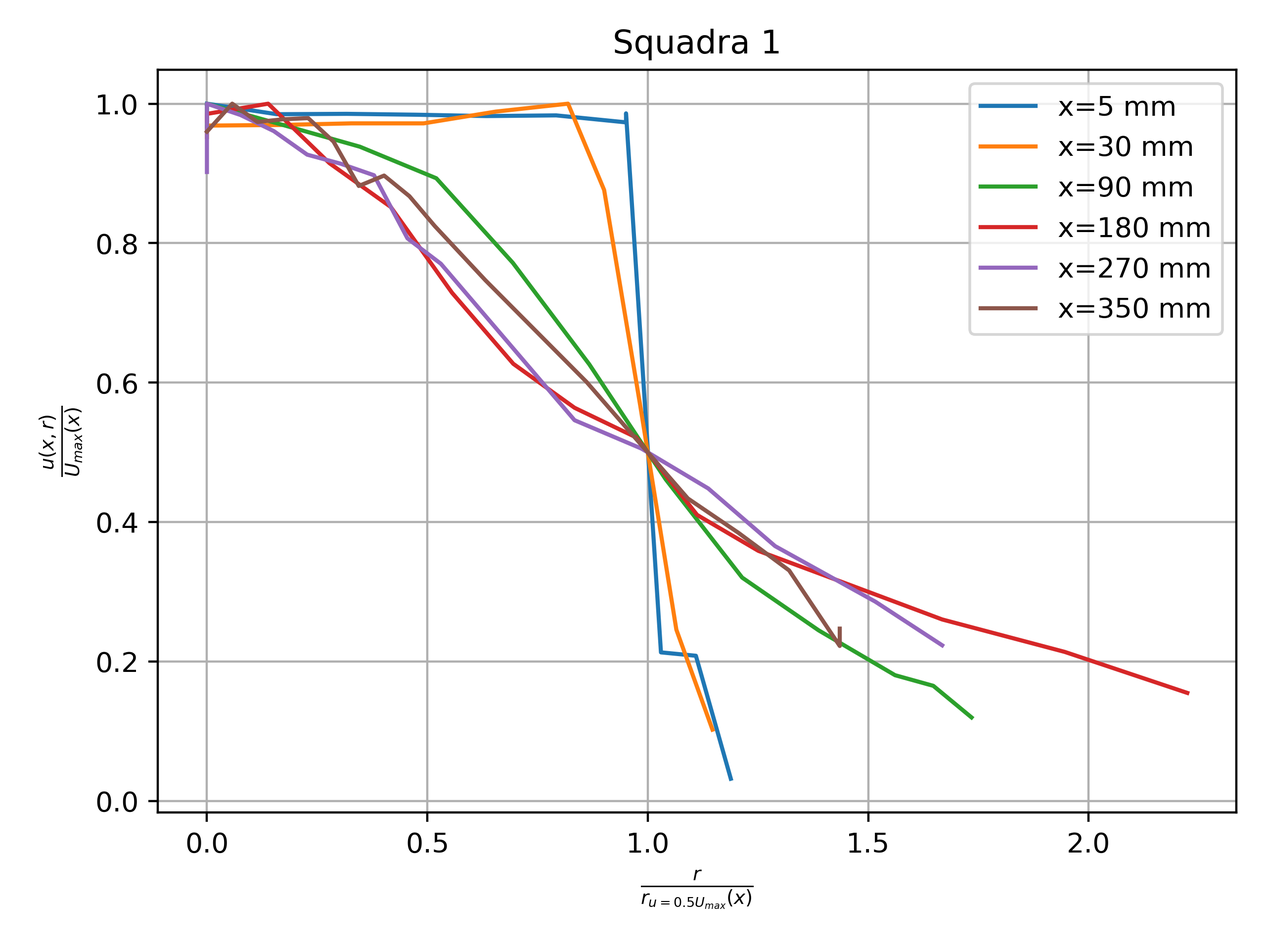
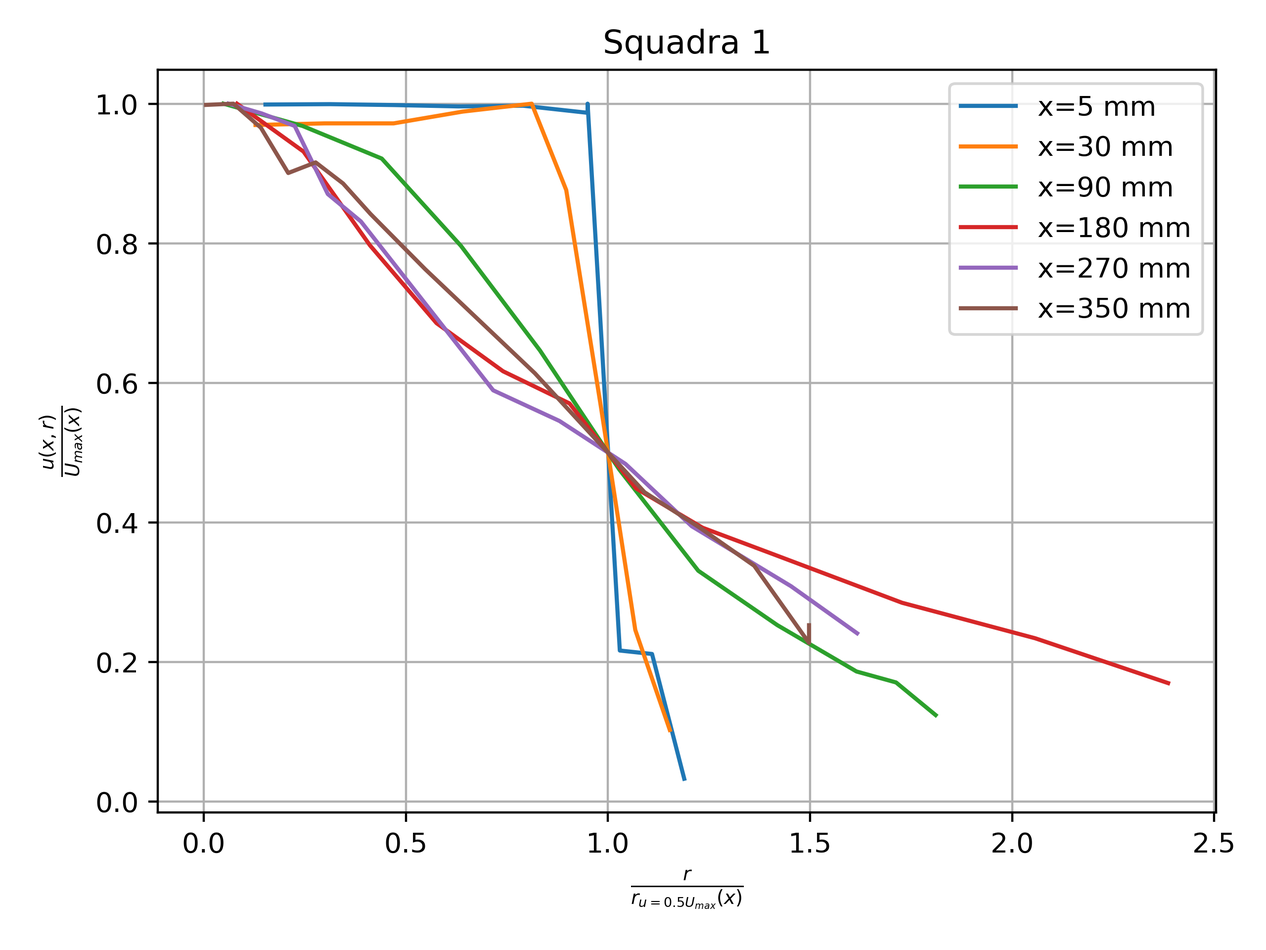
Fixes

diff --git a/chapters/5.tex b/chapters/5.tex
@@ -13,14 +13,14 @@ I profili alari NACA sono forme geometriche standardizzate sviluppate dal Nation
     \item La seconda cifra fornisce la distanza del punto di massima curvatura dal bordo d'attacco espressa come percentuale della corda e in multipli di dieci;
     \item Le ultime due cifre descrivono il massimo spessore del profilo alare espresso come percentuale della corda.
 \end{itemize}
-Ad esempio, il profilo alare NACA 2412 presenta una curvatura massima del 2\%, situata al 40\% della corda partendo dal bordo d'attacco e ha uno spessore massimo del 12\% della corda. Nei profili alari NACA a quattro cifre lo spessore massimo è sempre posizionaot al 30\% della corda, sempre partendo dal bordo d'attacco.\\\\
+Ad esempio, il profilo alare NACA 2412 presenta una curvatura massima del 2\%, situata al 40\% della corda partendo dal bordo d'attacco e ha uno spessore massimo del 12\% della corda. Nei profili alari NACA a quattro cifre lo spessore massimo è sempre posizionato al 30\% della corda, sempre partendo dal bordo d'attacco.\\\\
 Il profilo alare NACA 0015, preso in esame, è simmetrico, in quanto le cifre 00 indicano che non vi è una curvatura. Il 15 indica che lo spessore massimo è il 15\% della sua lunghezza.
 \newpage
 \noindent La formula per generare la forma di un profio alare NACA $00xx$, dove "$xx$" va sostituito con lo spessore massimo espresso come percentuale della corda, è:
 \begin{equation*}
     y_t = 5tc\left[ 0.2969\sqrt{\frac{x}{c}} -0.1260\left(\frac{x}{c}\right) -0.3516\left(\frac xc \right)^2 + 0.2843 \left( \frac xc \right)^3 -0.1015 \left( \frac xc \right)^4 \right]
 \end{equation*}
-Dove:
+dove:
 \begin{itemize}
     \item $c$ è la lunghezza della corda;
     \item $x$ è la posizione lungo la corda da 0 a $c$;
@@ -29,12 +29,12 @@ Dove:
 \end{itemize}
 
 \subsection{Descrizione dell'esperimento}
-Nella presente attività, il profilo alare NACA 0015, di corda pari a $c=100$ mm, è studiato con l'utilizzo di una galleria del vento. Le forze di pressione esercitate dal fluido sul profilo giaccino sul piano del campo di moto. Le forza aerodinamica generata dal flusso può essere scomposta in due componenti, una parallela ed una normale alla velocità, rispettivamente la resistenza e la portanza. Tali forze risultano applicate in un punto detto centro di pressione.\\\\
+Nella presente attività, il profilo alare NACA 0015, di corda pari a $c=100$ mm, è studiato con l'utilizzo di una galleria del vento aperta. Le forze di pressione esercitate dal fluido sul profilo giacciono sul piano del campo di moto. Le forza aerodinamica generata dal flusso può essere scomposta in due componenti, una parallela ed una normale alla velocità, rispettivamente la resistenza e la portanza. Tali forze risultano applicate in un punto detto centro di pressione.\\\\
 Nota la distribuzione di pressione relativa $p-p_\infty$ sulla superficie del profilo $S$, la risultante delle forze aerodinamiche $F$ è data da:
 \begin{equation*}
     F = \int_S (p-p_\infty)\vec n dS
 \end{equation*}
-Considerando un profilo immerso in una corrente uniforme di velocità $V_\infty$, posto ad incidenza $\alpha$, si utilizzano i pedici $+$ e $-$ per indicare le grandezze riferite rispettivamente a dorso e ventre del profilo.\\\\
+Considerando un profilo immerso in una corrente uniforme di velocità $V_\infty$, posto ad incidenza $\alpha$, si utilizzano i pedici "$+$" e "$-$" per indicare le grandezze riferite rispettivamente a dorso e ventre del profilo.\\\\
 Considerando un tratto di superficie del dorso di profondità unitaria, si ha:
 \begin{equation*}
     dF_+ = (p_+ - p_\infty)(ds_+ \cdot 1)
@@ -73,7 +73,7 @@ Si può riscrivere l'espressione della portanza come:
 \begin{equation*}
     L = \frac12 \rho V^2_\infty \int_0^c (c_{p-}-c_{p+})dx
 \end{equation*}
-Introducendo il coefficiente portanza, e considerando un flusso bidimensionale, si può adimensionalizzare la portanza rispetto ad una superficie di larghezza pari alla corda $c$ e profondità unitaria:
+Introducendo il coefficiente di portanza, e considerando un flusso bidimensionale, si può adimensionalizzare la portanza rispetto ad una superficie di larghezza pari alla corda $c$ e profondità unitaria:
 \begin{equation*}
     c_L = \int_0^1(c_{p-}-c_{p+})d\left( \frac xc \right)
 \end{equation*}
@@ -115,8 +115,8 @@ Per il calcolo della posizione del fuoco è sufficiente quindi imporre la condiz
 \begin{equation*}
     \frac{\partial c_{M_{ac}}}{\partial \alpha} = 0
 \end{equation*}
-Avendo cura di sostituire l'espressione per il coefficiente di momento sul bordo di attacco e per il coefficiente di portanza nel tratto lineare delle rispettive curve.\\\\
-Per un profilo in campo subsonico, la posizione del centro aerodinamico corrisponde a circa il 25\% della corda, mentre nel caso di campo supersonico il fuoco dei profili alare è posizionato in corrispondenza del 50\% della corda.\\\\
+avendo cura di sostituire l'espressione per il coefficiente di momento sul bordo di attacco e per il coefficiente di portanza nel tratto lineare delle rispettive curve.\\\\
+Per un profilo in campo subsonico, la posizione del centro aerodinamico corrisponde a circa il 25\% della corda, mentre nel caso di campo supersonico il fuoco dei profili alare risulta in corrispondenza del 50\% della corda.\\\\
 Una volta calcolato il fuoco del profilo è infine possibile ricavare il coefficiente di momento aerodinamico:
 \begin{equation*}
     c_{M_{ac}} = c_{M_{LE}} + c_L \frac{x_{ac}}c
@@ -140,7 +140,7 @@ Per misurare la distribuzione di pressione sul dorso e sul ventre del profilo al
 
 \noindent Sul profilo alare sono posizionate 11 prese di pressione, alle seguenti coordinate dal bordo di attacco:
 \begin{equation*}
-    \left( \frac xc \right) = 0,\ 2.5,\ 5,\ 10,\ 20,\ 30,\ 40,\ 50,\ 60,\ 70,\ 80
+    \left( \frac xc \right) = [0,\ 2.5,\ 5,\ 10,\ 20,\ 30,\ 40,\ 50,\ 60,\ 70,\ 80] \%
 \end{equation*}
 Queste prese sono presenti solo su una faccia del profilo, questo perché data la geometria simmetrica, il campo di pressione rilevato sul dorso ad un angolo di incidenza positiva è uguale al campo di pressione che si rileva sul ventre allo stesso angolo di incidenza con segno opposto.
 \begin{figure}[h]
@@ -162,7 +162,7 @@ Tenuto conto che nello strato limite tutte le grandezze variano rapidamente con 
     \frac{\partial P}{\partial y} = 0
 \end{equation*}
 Cioè la pressione statica nello strato limite lungo la coordinata $y$ rimane costante. Pertanto, è possibile considerare la pressione statica misurata a parete uguale alla pressione statica appena fuori dallo strato limite, ottenendo quindi informazioni sul campo di moto attorno al profilo.\\\\
-Oltre alle 11 prese di pressione statica sul profilo, sono presenti altre due prese subito a valle del convergente, una per la pressione totale ed una per la pressione statica. Queste 13 prese sono collegate tramite condotti pneumatici ad un multimanometro differenziale.\\\\
+Oltre alle undici prese di pressione statica sul profilo, sono presenti altre due prese subito a valle del convergente, una per la pressione totale ed una per la pressione statica. Queste tredici prese sono collegate tramite condotti pneumatici ad un multimanometro differenziale.\\\\
 In particolare, la presa di pressione statica all'ingresso della camera di prova e la presa di pressione totale della corrente sono connesse con le canne 1 e 2 del multimanometro, le canne 3 e 4 sono libere e quindi rilevano la pressione ambiente mentre le altre 11 canne sono impegnate dai segnali delle prese su una delle due facce del profilo alare.
 \begin{figure}[H]
     \centering
@@ -170,7 +170,7 @@ In particolare, la presa di pressione statica all'ingresso della camera di prova
     \caption{Multimanometro}
 \end{figure}
 
-\noindent Le canne manometriche sono inclinate con un angolo $\beta=15^\circ$ e riempite con alcool etilico, di densità nota $\rho_{fm} = 0.789$ g/cm$^3$.\\\\
+\noindent Le canne manometriche sono inclinate con un angolo $\beta=30^\circ$ e riempite con alcool etilico, di densità nota $\rho_{fm} = 0.789$ g/cm$^3$.\\\\
 Il peso specifico del fluido manometrico si ottiene come:
 \begin{equation*}
     \gamma_{fm} = g_0 \rho_{fm} = 7732\ \text{N/m}^3
@@ -310,7 +310,7 @@ Si ottengono i seguenti numeri di Reynolds per le quattro squadre:
 \end{equation*}
 
 \subsubsection{Coefficiente di pressione}
-Dai dati sulle altezze delle canne manometriche è immediato ricavare i coefficienti di pressioni valutati ad ogni posizione sul profilo e per ogni incidenza:
+Dai dati sulle altezze delle canne manometriche è immediato ricavare i coefficienti di pressione valutati ad ogni posizione sul profilo $x$ e per ogni incidenza $\alpha$:
 \begin{equation*}
     c_p(x,\alpha) = \frac{h_\infty-h}{h_\infty - h_{0\infty}}
 \end{equation*}
@@ -464,7 +464,7 @@ Per il calcolo della posizione del fuoco si impone la proprietà focale, avendo 
 \begin{equation*}
     \frac{x_{ac}}c = - \frac{c_{M_{LE}\alpha}}{c_{L\alpha}} = \frac{1.3}{5.2} = 0.25
 \end{equation*}
-Questo risultato è valido per il campo subsonico mentre in campo supersonico il fuoco dei profili alari è posizionato in corrispondenza del 50\% della corda.
+Questo risultato è valido per il campo subsonico mentre in campo supersonico il fuoco dei profili alari risulta in corrispondenza del 50\% della corda.
 
 \subsubsection{Coefficiente di momento aerodinamico}
 Una volta calcolata la posizione del fuoco si può ricavare il coefficiente di momento aerodinamico:

diff --git a/chapters/11.tex b/chapters/11.tex
@@ -117,7 +117,7 @@ Il toolbox PIVlab comprende gli algoritmi numerici della PIV con cui si può val
 L'analisi dati per la presente attività è condotta con l'ausilio di alcuni codici in Matlab, riportati in appendice \ref{b11}.\\\\
 I file \texttt{.mat} esportati da PIVlab contengono i campi di velocità per ciascun fotogramma dei video analizzati. Utilizzando un codice Matlab, è possibile generare delle animazioni che mostrano il campo di velocità, con una scala di colori per rappresentare l'intensità e delle frecce per indicare la direzione del flusso.
 \subsubsection{Campo istantaneo di velocità}
-Estraendo il campo di velocità in un determinato istante, si ottiene il campo di velocità istantaneo:
+Estraendo il campo di velocità in un determinato istante, si ottiene il campo istantaneo di velocità:
 \begin{figure}[H]
     \centering
     \includegraphics[height=.45\textwidth]{images/11/f300_22b.png}
@@ -209,7 +209,7 @@ Applicando la FFT ai segnali, si ottiene:
     \caption{Trasformata di Fourier (cilindro 2022, cilindro 2023, placca 2022)}
 \end{figure}
 
-\noindent Si osservano dei picchi nella trasformata di Fourier in corrispondenza della frequenza di svilamento dei vortici. I risultati della FFT cambiano a seconda del punto analizzato nello spazio, ma la frequenza che caratterizza lo sfilamento vorticoso rimane la stessa.\\\\
+\noindent Si osservano dei picchi nella trasformata di Fourier in corrispondenza della frequenza di sfilamento dei vortici. I risultati della FFT cambiano a seconda del punto analizzato nello spazio, ma la frequenza che caratterizza lo sfilamento vorticoso rimane la stessa.\\\\
 Per ricavare lo spettro di potenza dai risultati della FFT, si calcola il modulo al quadrato e si normalizza rispetto al numero di fotogrammi acquisiti $N_{frames}$:
 \begin{equation*}
     P(f) = \frac{ \left|\hat u(f)\right|^2}{N_{frames}} 
@@ -264,7 +264,7 @@ Si ottengono i seguenti risultati:
     \caption{Diagramma Reynolds-Strouhal}
 \end{figure}
 
-\noindent Il flusso che si sviluppa non risulta essere quello canonico 2D per via della sua dimensione finita che appoggia sulla parete inferiore della camera di prova. Inoltre, il piano di misura è a un diametro di distanza dal fondo, dove si sviluppa il vortice a ferro di cavallo (horseshoe vortex) e sono presenti effetti tridimensionali dovuti all'induzione del vortice. Per questi motivi i casi da studiare differiscono dai flussi canonici bidimensionali, pertanto, l'andamento Reynolds-Strouhal si discosta leggermente da quello studiato per il cilindro 2D utilizzando l'anemometria a filo caldo.
+\noindent Il flusso che si sviluppa non risulta essere quello canonico 2D per via della sua dimensione finita che appoggia sulla parete inferiore della camera di prova. Inoltre, il piano di misura è a un diametro di distanza dal fondo, dove si sviluppa il vortice a ferro di cavallo (horseshoe vortex) e sono presenti effetti tridimensionali dovuti all'induzione del vortice. Per questi motivi i casi esaminati differiscono dai flussi canonici bidimensionali, pertanto, l'andamento Reynolds-Strouhal si discosta leggermente da quello studiato per il cilindro 2D utilizzando l'anemometria a filo caldo.
 
 \subsubsection{Conservazione dell'energia (Teorema di Parseval)}
 Secondo il teorema di Parseval, l'energia totale di un segnale nel dominio del tempo è uguale all'energia totale nel dominio delle frequenze. Applicando il teorema al caso in esame, la varianza delle fluttuazioni nel dominio del tempo deve essere uguale all'integrale dello spettro di potenza nel dominio delle frequenze.\\\\
@@ -304,10 +304,11 @@ Dal campo di fluttuazioni di velocità si possono infine ricavare gli sforzi di 
     \tau_{Re} = -\rho \overline{u^\prime v^\prime}
 \end{equation*}
 dove con $\rho$ è indicata la densità dell'acqua $\rho = 1000$ kg/m$^3$.\\\\
-Gli sforzi di Reynolds forniscono una visione dettagliata delle interazioni turbolente nella scia del cilindro. La presenza di elevate fluttuazioni turbolente nelle regioni di separazione e ricircolo evidenzia l'importanza dei fenomeni turbolenti nel determinare il comportamento globale del flusso.\\\\
 Si ottiene quindi il seguente diagramma:
 \begin{figure}[H]
     \centering
     \includegraphics[width=\textwidth]{images/11/tauRe.png}
     \caption{Sforzi di Reynolds (cilindro 2022)}
 \end{figure}
+
+\noindent Gli sforzi di Reynolds forniscono una visione dettagliata delle interazioni turbolente nella scia del cilindro. La presenza di elevate fluttuazioni turbolente nelle regioni di separazione e ricircolo evidenzia l'importanza dei fenomeni turbolenti nel determinare il comportamento globale del flusso.

diff --git a/chapters/3.tex b/chapters/3.tex
@@ -43,7 +43,7 @@ La catena di misura è dunque costituita da:
 \subsection{Procedura sperimentale}
 Ogni squadra effettua misure per una portata costante. Pertanto si ricavano dati per quattro diversi valori di portata, quindi quattro diversi numeri di Reynolds.\\\\
 Le misure sono effettuate al variare della distanza trasversale del getto $r$ e per diversi valori di distanza assiale $x$.\\\\
-Per regolare la distanza trasversale e la distanza assiale, sono presenti due diverse manopole. Il primo passo consiste nel misurare l'attuale distanza assiale con l'utilizzo di un metro. Una volta definita la distanza assiale, si procede a far variare la distanza trasversale in entrambi i versi rispetto all'asse del getto e si acquisiscono i dati in uscita dal trasduttore di pressione. Una volta acquisiti sufficienti misurazioni si passa ad una diversa distanza assiale $x$ e si ripete la procedura di acquisizione dati.\\\\
+Per regolare la distanza trasversale e la distanza assiale, sono presenti due diverse manopole. Il primo passo consiste nel misurare l'attuale distanza assiale con l'utilizzo di un metro. Una volta definita la distanza assiale, si procede a far variare la distanza trasversale in entrambi i versi rispetto all'asse del getto e si acquisiscono i dati in uscita dal trasduttore di pressione. Una volta acquisite sufficienti misurazioni si passa ad una diversa distanza assiale $x$ e si ripete la procedura di acquisizione dati. Durante la procedura sperimentale non si escludono eventuali errori degli operatore nel misurare le distanze $x$ e $r$.\\\\
 I dati grezzi acquisiti mediante questa procedura sono riportati in appendice \ref{a3}.
 
 \subsection{Analisi dati}
@@ -61,12 +61,12 @@ Dalle tensioni in uscita acquisite, si calcola la pressione dinamica e quindi la
     q = \frac12 \rho U^2 = K_t \Delta E = K_t (E - E_0) \quad \Rightarrow \quad U = \sqrt{\frac{2q}\rho}
 \end{equation*}
 Si può quindi diagrammare l'andamento della velocità in funzione della posizione trasversale $r$ ed assiale $x$:
-\begin{figure}[h]
+\begin{figure}[H]
     \centering
     \includegraphics[width=.9\textwidth]{images/3/sq1.png}
     \caption{Profili di velocità per la prima squadra}
 \end{figure}
-\begin{figure}[ht]
+\begin{figure}[H]
     \centering
     \includegraphics[width=.85\textwidth]{images/3/sq2.png}
     \caption{Profili di velocità per la seconda squadra}
@@ -76,7 +76,7 @@ Si può quindi diagrammare l'andamento della velocità in funzione della posizio
     \includegraphics[width=.85\textwidth]{images/3/sq3.png}
     \caption{Profili di velocità per la terza squadra}
 \end{figure}
-\begin{figure}[ht]
+\begin{figure}[H]
     \centering
     \includegraphics[width=.8\textwidth]{images/3/sq4.png}
     \caption{Profili di velocità per la quarta squadra}
@@ -109,7 +109,7 @@ Utilizzando tale velocità si calcola il numero di Reynolds per i quattro flussi
 \begin{equation*}
     Re = \frac{\rho U_0 D_j}{\mu}
 \end{equation*}
-Questi corrispondono a 15905, 26321, 42207 e 34102.\\\\
+Questi corrispondono a 15684, 26321, 42207 e 34102.\\\\
 I profili di velocità che presentano una porzione del cuore potenziale del getto caratterizzano la mixing region del getto, mentre i profili successivi caratterizzano la zona di transizione e la zona self-similar.
 \newpage
 \noindent Si possono ora diagrammare i profili di velocità adimensionali, ad esempio normalizzando la velocità con la velocità iniziale del getto e la distanza radiale con il diametro del getto:

diff --git a/chapters/9.tex b/chapters/9.tex
@@ -1,5 +1,5 @@
 \section{Strato limite su placca piana}\label{c9}
-La presente esercitazione si pone come obiettivo la caratterizzazione dello strato limite su placca piana mediante l'utilizzo dell'anemometria a filo caldo. In particolare, si vuole:
+La presente esercitazione si pone come obiettivo la caratterizzazione dello strato limite su una placca piana mediante l'utilizzo dell'anemometria a filo caldo. In particolare, si vuole:
 \begin{itemize}
     \item Misurare i profili di velocità per diverse ascisse $x$ con assegnata $U_\infty$;
     \item Caratterizzare la struttura dello strato limite:
@@ -98,13 +98,13 @@ Trattandosi di strato limite turbolento la velocità è da intendersi come veloc
 \subsection{Catena di misura}
 La galleria del vento è del tipo a circuito aperto-aspirato con camera di prova circolare e chiusa.\\\\
 All'interno della camera di prova è posta una placca piana, a contatto con le pareti della galleria in modo da rendere il flusso il più bidimensionale possibile.\\\\
-La sonda a filo caldo è posizionata verticalmente in prossimità della placca piana mediante un movimentatore elettromeccanico passo-passo, in grado di spostare verticalmente la sonda di un millimetro per ogni 200 passi.\\\\
+La sonda a filo caldo è posizionata in prossimità della placca piana mediante un movimentatore verticale elettromeccanico passo-passo, in grado di spostare verticalmente la sonda di un millimetro per ogni 200 passi.\\\\
 Il sistema sonda-movimentatore passo-passo, è posizionato lungo la mezzeria della galleria placca piana, ad una distanza $x$ misurata approssimativamente dal bordo di attacco.\\\\
 Nella catena di misura è inoltre presente un tubo di Pitot necessario per regolare la velocità del flusso nella galleria del vento ed un sistema di acquisizione dati.
 \begin{figure}[H]
     \centering
     \includegraphics[width=.8\textwidth]{images/9/sonda.jpg}
-    \caption{Sonda a filo caldo posizionata sulla placca piana}
+    \caption{Sonda a filo caldo posizionata in prossimità della placca piana}
 \end{figure}
 
 \begin{figure}[H]
@@ -180,7 +180,7 @@ Poiché si dispone di dati discreti, per gli integrali si utilizza la regola dei
 \begin{equation*}
     \int_a^b f(x)dx \approx \sum_{k=1}^n \frac{f(x_{k-1}) + f(x_k)}2 \Delta x_k \quad \text{con } \Delta x_k = x_k - x_{k-1}
 \end{equation*}
-Il metodo più immediato per determinare se lo strato limite analizzato è laminare, transizionale o turbolento, è il calcolo del numero di Reynolds locale $Re_x$, relativo alla coordinata $x$, se questo è maggiore del numero di Reynolds critico ($Re_{cr}\approx500000$) allora lo strato limite è laminare, altrimenti è turbolento:
+Il metodo più immediato per determinare se lo strato limite analizzato è laminare, transizionale o turbolento, è il calcolo del numero di Reynolds locale $Re_x$, relativo alla coordinata $x$, se questo è maggiore del numero di Reynolds critico ($Re_{cr}\approx500000$) allora lo strato limite è turbolento, altrimenti è laminare:
 \begin{equation*}
     Re_x = \frac{U_\infty x}\nu
 \end{equation*}

diff --git a/chapters/6.tex b/chapters/6.tex
@@ -43,11 +43,11 @@ Si può quindi valutare la resistenza aerodinamica integrando tale relazione:
 \begin{equation*}
     D = \int_{-\infty}^\infty dD = \rho \int_{-\infty}^\infty u (V_\infty - u) dy
 \end{equation*}
-Introducendo il coefficiente di resistenza aerodinamica del profilo alare, rispetto ad una superifice di profondità unitaria ($S = c\cdot1$):
+Introducendo il coefficiente di resistenza aerodinamica del profilo alare, rispetto ad una superficie di profondità unitaria ($S = c\cdot1$):
 \begin{equation*}
     c_D = \frac{D}{\frac12 \rho V_\infty^2 c}
 \end{equation*}
-Si ricava quindi:
+si ricava quindi:
 \begin{equation*}
     c_D = \frac 2c \int_{-\infty}^\infty \frac {u}{V_\infty} \left( 1-\frac{u}{V_\infty}\right) dy
 \end{equation*}
@@ -58,7 +58,7 @@ Per calcolare la distribuzione di velocità normalizzata $u/V_\infty$, che risul
         &\text{Nella scia } p_{0} - p = \frac 12 \rho u^2
     \end{split}
 \end{equation*}
-Da queste equazioni si ricava:
+da queste equazioni si ricava:
 \begin{equation*}
     \frac{u}{V_\infty} = \sqrt{\frac{p_0 - p}{p_{0\infty} - p_\infty}}
 \end{equation*}
@@ -75,7 +75,7 @@ La catena di misura è la stessa descritta nell'esercitazione precedente. Il pro
     \caption{Rake di prese di pressione sulla scia}
 \end{figure}
 
-\noindent In particolare, il rack comprende 18 prese di pressione totale, distanti tra loro $\Delta y= 2mm$. Queste, assieme alle prese di pressione statica e pressione totale all'entrate della camera di prova, sono connesse ad un multimanometro differenziale, che utilizza come fluido manometrico alcool etilico.
+\noindent In particolare, il rake comprende 18 prese di pressione totale, distanti tra loro $\Delta y= 2mm$. Queste, assieme alle prese di pressione statica e pressione totale all'entrata della camera di prova, sono connesse ad un multimanometro differenziale, che utilizza come fluido manometrico alcool etilico.
 
 \subsection{Procedura sperimentale}\label{istogrammiscia}
 Per ogni incidenza sono misurate le altezze del fluido manometrico $h_i$ oltre alle grandezze $h_{0\infty}$ e $h_\infty$ corrispondenti alle pressioni $p_{0\infty}$ e $p_0$, analogamente all'indagine precedente.\\\\

diff --git a/chapters/8.tex b/chapters/8.tex
@@ -34,7 +34,7 @@ Risulta quindi il bilancio di scambio termico:
 \begin{equation*}
     I^2R_w = h\pi d l (T_w - T_f)
 \end{equation*}
-La dipendenza del flusso di calore scambiato dalla velocità è racchiuso nel coefficiente di scambio termico $h$. Ricorrendo all'analisi dimensionale e all'applicazine del teorema di Buckingham, il coefficiente $h$ può essere espresso attraverso il numero di Nusselt:
+La dipendenza del flusso di calore scambiato dalla velocità è racchiuso nel coefficiente di scambio termico $h$. Ricorrendo all'analisi dimensionale e all'applicazione del teorema di Buckingham, il coefficiente $h$ può essere espresso attraverso il numero di Nusselt:
 \begin{equation*}
     Nu = \frac{ h d}{k_f} \quad \rightarrow \quad h = \frac{Nu\, k_f}d
 \end{equation*}
@@ -129,7 +129,7 @@ L'analisi dati per la presente attività è condotta con l'ausilio di un codice 
 Come prima operazione è necessario misurare la tensione di offset del trasduttore di pressione Setra 239 C. Tale tensione per la presente indagine risulta essere pari a $E_{0t}=0.036$ V.\\\\
 Utilizzando la costante di taratura del trasduttore di pressione precedentemente ricavata:
 \begin{equation*}
-    K_t =\ 550 \text{Pa/m}
+    K_t = 550\ \text{Pa/m}
 \end{equation*}
 Si misura la pressione dinamica e quindi la velocità del flusso rilevata dal tubo di Pitot:
 \begin{equation*}

diff --git a/chapters/7.tex b/chapters/7.tex
@@ -106,7 +106,7 @@ Successivamente si calcola il diametro idraulico del condotto, a partire dalla l
     D_{idr} = \frac{4A}{2P} = \frac{4BH}{2(B+H)} = 0.1135\ \text{m}
 \end{equation*}
 Utilizzando il pannello di controllo per la regolazione del numero di giri della ventola, si varia la portata e quindi il numero di Reynolds. Per ogni numero di Reynolds si acquisiscono i dati relativi alle prese di pressione in uscita dal trasduttore di pressione.\\\\
-Ad ogni misura, il trasduttore registra una grande quantità di dati, ad una frequenza di campionamento di 20 Hz per un periodo di 60 secondi.\\\\
+Ad ogni misura, il trasduttore acquisisce i dati ad una frequenza di campionamento di 20 Hz per un periodo di 60 secondi, per un totale di 1200 valori.\\\\
 I dati grezzi mediati ottenuti per le quattro squadre sono riportati in appendice \ref{a7}.
 
 \subsection{Analisi dati}

diff --git a/chapters/10.tex b/chapters/10.tex
@@ -76,7 +76,7 @@ Si misura la pressione dinamica e quindi la velocità del flusso rilevata dal tu
 \begin{equation*}
     U_{\infty} = \sqrt{\frac{2K_t(E_{t}-E_{0t})}\rho}
 \end{equation*}
-Si può quindi diagrammare l'andamento della frequenza di shedding in funzione della velocità a monte. Da come si vede nei seguenti diagrammi per le quattro squadre, questi diagrammi rappresentano una disposizione rettilinea dei dati sperimentali:
+Si può quindi diagrammare l'andamento della frequenza di shedding in funzione della velocità a monte. Da come si vede nei seguenti diagrammi per le quattro squadre, questi rappresentano una disposizione rettilinea dei dati sperimentali:
 \begin{figure}[H]
     \centering
     \includegraphics[width=.9\textwidth]{images/10/sq1.png}

diff --git a/chapters/4.tex b/chapters/4.tex
@@ -29,7 +29,8 @@ si evidenzia l'equazione di una retta:
 \begin{equation*}
     y = -mx + q
 \end{equation*}
-Con una semplice interpolazione lineare dei dati nella regione autosimilare è dunque possibile ricavare i valori di $m$ e $k$ per le quattro squadre, si ottiene:
+Con una semplice interpolazione lineare dei dati nella regione autosimilare è dunque possibile ricavare i valori di $m$ e $k$ per le quattro squadre.\\\\
+Si ottiene:
 \begin{equation*}
     \begin{split}
         \text{Squadra 1: } m = 1.346 &\quad k = 8.377\\

diff --git a/chapters/2.tex b/chapters/2.tex
@@ -76,7 +76,7 @@ Per il calcolo della densità si utilizzano le condizioni di pressione e tempera
 \begin{equation*}
     \rho = \frac{p_{amb}}{R\,T_{amb}}
 \end{equation*}
-dove $R\approx 287$ è la costante dei gas relativa all'aria.\\\\
+dove $R\approx 287$ J/kgK è la costante dei gas relativa all'aria.\\\\
 Per il calcolo della viscosità dinamica $\mu$ si utilizza la legge di Sutherland:
 \begin{equation*}
     \mu = 1.46\cdot10^{-6} \frac{T_{amb}^{3/2}}{T_{amb}+110}
